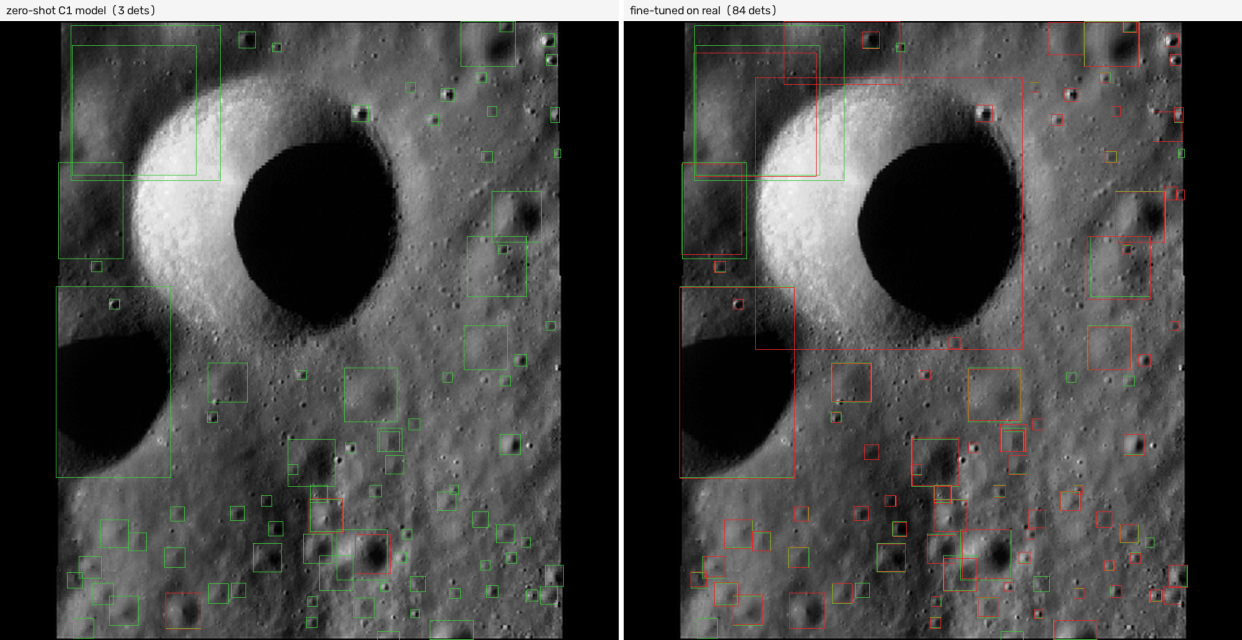
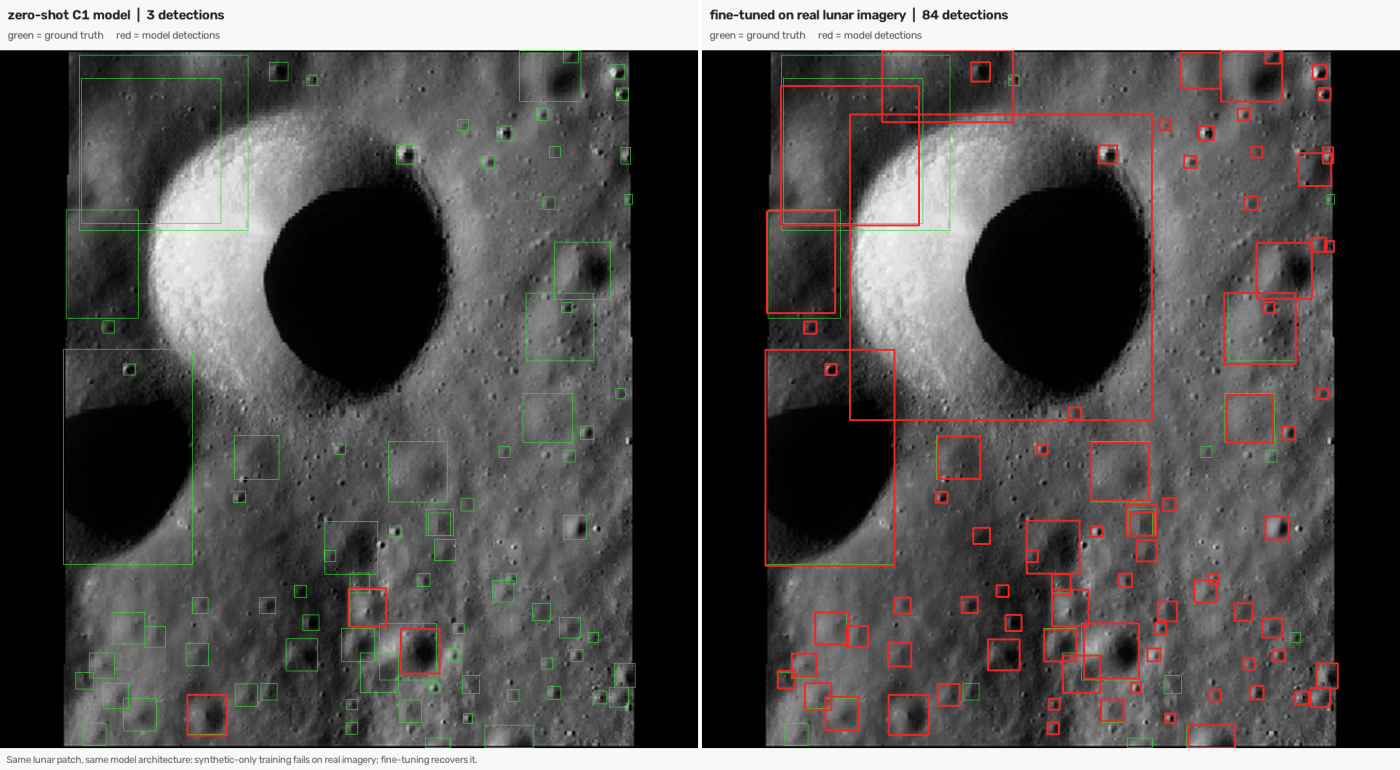
docs: add README with results and quickstart

diff --git a/README.md b/README.md
@@ -1,0 +1,92 @@
+# lunar-trn
+
+Crater-based terrain-relative navigation (TRN): detect lunar craters, fit precise
+ellipses, estimate camera pose, and evaluate localization-relevant perception for
+GNSS-denied environments.
+
+![sim-to-real](figures/sim2real.png)
+
+*Left: a synthetic-trained detector on real lunar imagery (3 detections). Right: the same
+architecture fine-tuned on real imagery (84 detections). Green = ground truth, red = model
+detections.*
+
+## Results
+
+| Task | Metric | Result |
+|---|---|---|
+| NASA Crater Detection benchmark (held-out split, 200 images) | CDA (official scorer) | **91.97** (95% CI 89.93–93.80) |
+| Real lunar imagery (LU3M6TGT), fine-tuned, held-out patches | mAP50 | **0.947** |
+| Human-verified craters ≥2 km (Robbins catalogue) | recall | **0.606** |
+| Pose, oracle correspondences (CRESENT, DEM) | position / attitude | **1.7–3 km / 0.6–1.7°** |
+| Blind position, attitude known (CRESENT) | success <5 km @ 0/20/40/60° | **96 / 95 / 80 / 64%** |
+
+*CDA on the 200-image held-out split (official scorer); CI from 10k bootstrap resamples.
+Pose uses oracle correspondences (ground-truth projections) — an upper bound. Blind
+position assumes known attitude/altitude (star-tracker mode).*
+
+![real detection](figures/demo_detection.png)
+
+*Real lunar patch: correctly detected craters (green, TP 92), missed ground truth (blue,
+FN 8), false positives (red, FP 16); precision 0.85, recall 0.92.*
+
+## How it works
+
+```
+image → YOLO detector → instance masks → cv2.fitEllipse → CDA scoring
+                       ↘ matched to catalogue craters → solvePnP → pose
+```
+
+The benchmark score (CDA) rewards ellipse fidelity including rotation. That is why
+segmentation + `fitEllipse` outperforms box detectors despite a lower box-mAP. The pose
+pipeline matches detected craters to the Robbins catalogue and solves for camera position
+and attitude; the blind variant requires no prior position.
+
+```
+src/
+├── prepare.py        build box/seg datasets from NASA C1 ellipse labels
+├── train.py          config-driven trainer (configs/)
+├── predict.py        C1 inference → challenge-format ellipse CSV
+├── infer.py          inference on real (LU3M6TGT) and CRESENT imagery
+├── metrics/          CDA + top-k sweep, bootstrap CI, AP/Robbins audit, leak audit
+├── crescent/         viewpoint homography analysis
+└── pose/             LOLA DEM sampler, Tier-A pose evaluation, blind position matching
+```
+
+## Quickstart
+
+```bash
+pip install -r requirements.txt     # install torch for your accelerator first
+python src/prepare.py --task seg --gt data/nasa-craters/train-gt.csv \
+    --images-root data/nasa-craters/train-extracted/train --out data/c1-full-seg
+python src/train.py --config configs/c1-seg.yaml
+python src/predict.py --model runs/segment/runs/full-v1s-seg/weights/best.pt \
+    --images data/c1-full-seg/images/val --out preds/seg.csv --conf 0.05
+```
+
+Datasets are not bundled; the paths above assume the standard layout.
+
+## Model weights
+
+| Model | Purpose | Link |
+|---|---|---|
+| `lunar-trn-seg` | C1 segmentation (CDA 91.97) | https://huggingface.co/huseyincavus/lunar-trn-seg |
+| `lunar-trn-ft-real` | real-domain detector (mAP50 0.947) | https://huggingface.co/huseyincavus/lunar-trn-ft-real |
+
+## Data & licences
+
+NASA Crater Detection Challenge (public, research use) · LU3M6TGT (CC BY-SA 4.0) ·
+Robbins 2018 catalogue (PDS) · CRESENT (academic use) · LOLA LDEM_64 (PDS).
+No data is bundled; weights are hosted on Hugging Face.
+
+## Limitations
+
+- Benchmark numbers use a held-out split of the challenge data; the official test ground
+  truth is not public.
+- The synthetic-trained model transfers poorly to real imagery zero-shot (mAP50 ≈ 0.03 at
+  the matched inference scale; 0.09 at the best inference scale); real-domain results
+  require the fine-tuned model.
+- Real-domain labels are catalogue-derived and incomplete (≈59% coverage of Robbins ≥2 km
+  craters), so precision against them understates true detection.
+- Fine-tuning specializes the model (it forgets the synthetic domain).
+- Blind pose assumes known attitude/altitude (star-tracker mode); full 6-DOF blind pose is
+  future work.
